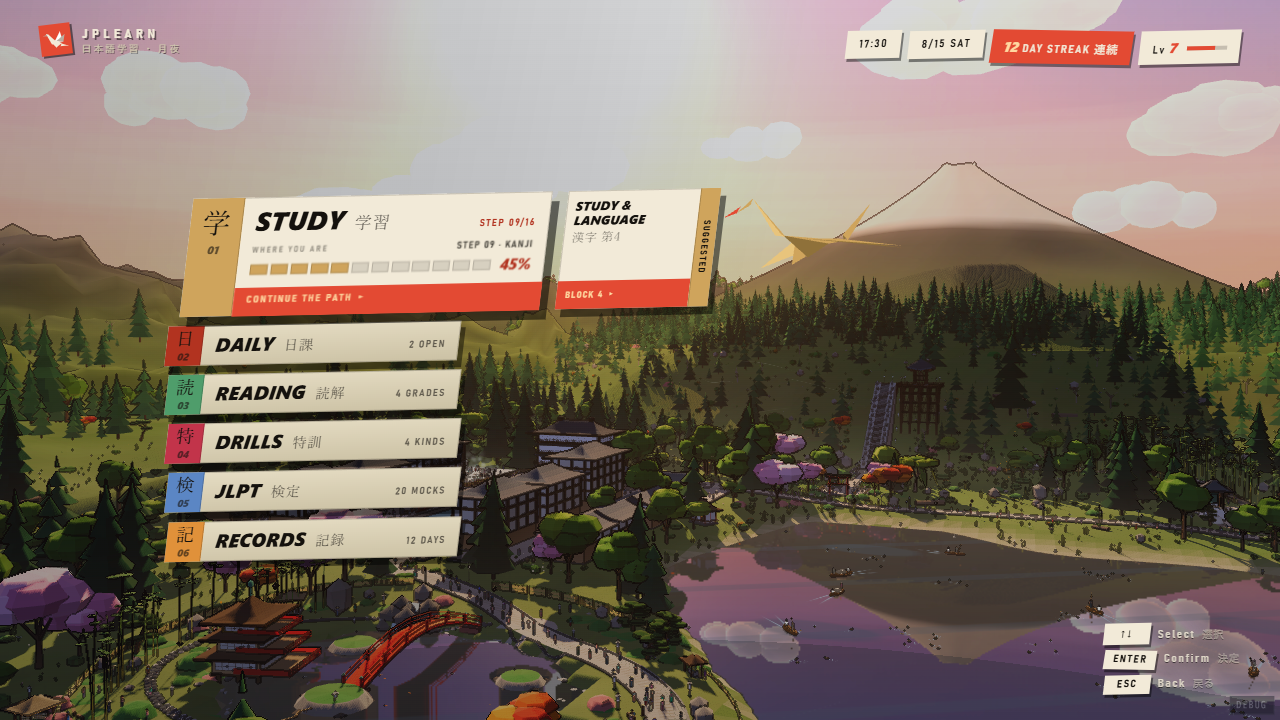
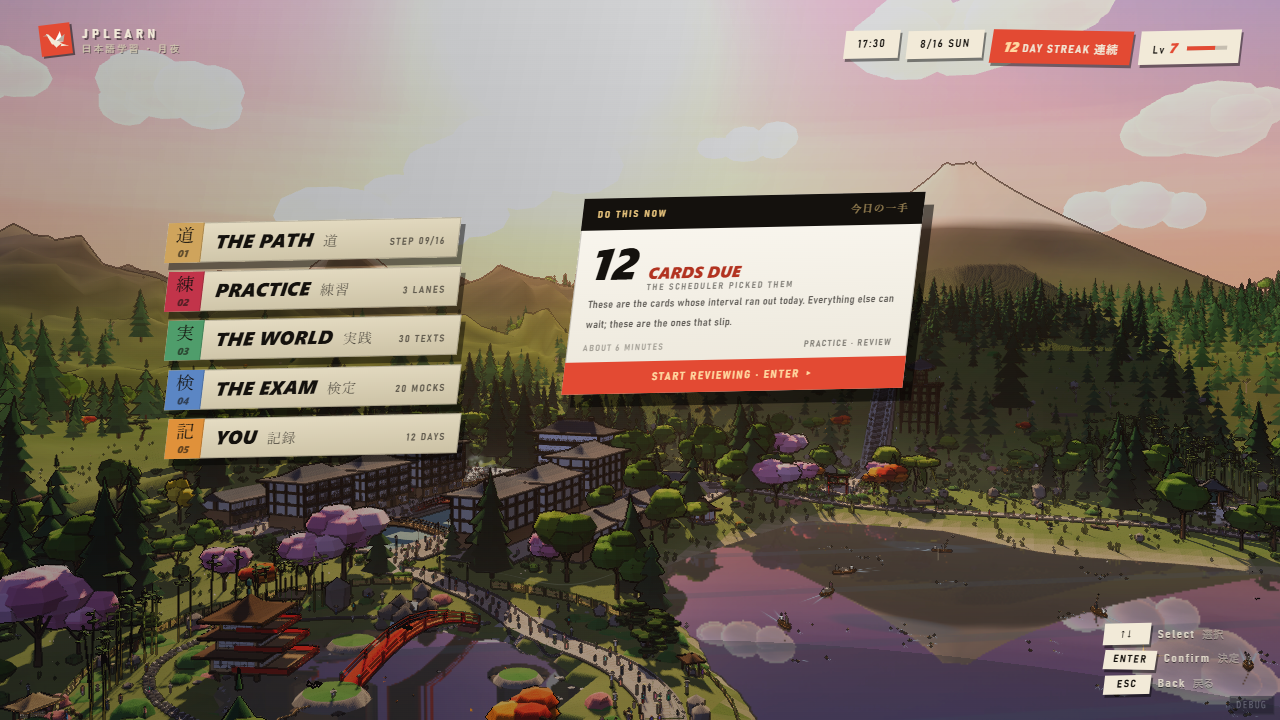
docs(design-system): the menu plate catches up with the restructure
The level-one plate showed six sections and no hero, which is a picture of a menu that
stopped existing two commits ago. Re-rendered as it actually opens — the hero selected,
five rows beneath it — at the same frozen 17:30 as the other eleven.

NEW: Practice's lanes, which had no plate at all because the screen did not exist when
this card was last written. The modes card moves with it, from level two to level three.

The levels table was the stalest thing in here: it still listed six section rows and put
the daily road at level three under DAILY, a section that is now a lane inside Practice.
Twelve screens still, but a different twelve.

diff --git a/mockups/menu-concepts/design-system/components/screens.html b/mockups/menu-concepts/design-system/components/screens.html
@@ -69,12 +69,12 @@
 <div class="note">
   <b>Twelve screens, three levels.</b>
   <table>
-    <tr><th>LEVEL 1</th><td>the standing menu — a vertical column of six section rows, one open at
-      a time</td></tr>
-    <tr><th>LEVEL 2</th><td>six, one per section: STUDY path &middot; DAILY road &middot; READING
-      library &middot; DRILLS modes &middot; JLPT ascent &middot; RECORDS ledger</td></tr>
-    <tr><th>LEVEL 3</th><td>four: STUDY deck &middot; STUDY feed &middot; STUDY cleared pile &middot;
-      DAILY road</td></tr>
+    <tr><th>LEVEL 1</th><td>the standing menu — the hero, and five section rows beneath it</td></tr>
+    <tr><th>LEVEL 2</th><td>six: The Path's path &middot; Practice's lanes &middot; The World's
+      library &middot; The Exam's ascent &middot; You's ledger &middot; and the daily road, which is
+      reached from inside Practice rather than from a row of its own</td></tr>
+    <tr><th>LEVEL 3</th><td>five: the deck &middot; the feed &middot; the cleared pile &middot;
+      the drill modes &middot; the daily road</td></tr>
   </table>
 </div>
 
@@ -90,10 +90,16 @@
 <figure>
   <img src="../assets/screen-menu.png" alt="Level one, the standing menu">
   <figcaption>
-    <div class="name"><b>THE MENU</b><i>LEVEL 1 &middot; 6 SECTIONS</i><u>chain</u></div>
-    <p>Six rows, one open at a time, the open one carrying its own state and its own next action so
-      there is no second panel to look at. Classes are <code>.st-*</code>. Documented as an object
-      in <code>built.html</code> section A.</p>
+    <div class="name"><b>THE MENU</b><i>LEVEL 1 &middot; THE HERO AND FIVE SECTIONS</i><u>chain</u></div>
+    <p><b>The hero is the selection the menu opens on</b>, which is the whole point: nine sessions in
+      ten the answer is "do what is due", and a casual player should reach it in one keypress without
+      having read a section name. Its priority is the app's own — cards due, then the path's next
+      block, then the unplayed puzzles — because reviews decay if they wait and nothing else on this
+      menu does. Classes are <code>.st-*</code> and <code>.sh-*</code>.</p>
+    <p>It replaced the per-section suggestion box rather than joining it. Three layers of "what
+      next" — row slab, box, hero — is two too many, and the box was the weakest and the only one
+      that moved. It also freed the space: the column already fills the stage, so a card above would
+      have been paid for by shrinking the rows.</p>
     <p><b>The one screen that does not obey the contract's balance.</b> It keeps the moat and the
       bands but stays a left column with the mountain to its right — that composition is why the
       rest of the interface looks the way it does.</p>
@@ -193,9 +199,22 @@
 </figure>
 
 <figure>
+  <img src="../assets/screen-lanes.png" alt="Practice, the three lanes">
+  <figcaption>
+    <div class="name"><b>THE LANES</b><i>PRACTICE &middot; LEVEL 2 &middot; 3 LANES</i><u>peers</u></div>
+    <p>Practice is the one section that is a merge rather than a rename: it absorbed the daily
+      puzzles, the seventeen drills, and the review queue that never had a home anywhere. Three
+      things you can do with material the path has already taught you, and nothing new is introduced
+      here. Classes are <code>.pr-*</code>.</p>
+    <p><b>Only reviews carry vermilion</b>, because only reviews are an obligation — the other two
+      are things you choose. That is the same colour law the action slab obeys everywhere else.</p>
+  </figcaption>
+</figure>
+
+<figure>
   <img src="../assets/screen-modes.png" alt="DRILLS, the modes">
   <figcaption>
-    <div class="name"><b>THE FOLD</b><i>DRILLS &middot; LEVEL 2 &middot; 17 MODES &times; 6 DECKS</i><u>peers</u></div>
+    <div class="name"><b>THE FOLD</b><i>PRACTICE &middot; LEVEL 3 &middot; 17 MODES &times; 6 DECKS</i><u>peers</u></div>
     <p>The road, kept, plus the axis it was missing. Seventeen modes in five groups with a deck row
       above them &mdash; <b>a mode the current deck does not offer leaves the road entirely</b> and
       the road closes over it. Classes are <code>.dr-*</code>.</p>
@@ -212,7 +231,7 @@
 <figure>
   <img src="../assets/screen-road-daily.png" alt="DAILY, the road">
   <figcaption>
-    <div class="name"><b>THE ROAD</b><i>DAILY &middot; LEVELS 2 AND 3</i><u>peers</u></div>
+    <div class="name"><b>THE ROAD</b><i>THE DAILY PUZZLES, INSIDE PRACTICE</i><u>peers</u></div>
     <p>The carousel from <code>built.html</code> B&amp;C, inset to the stage. It was full-bleed on
       purpose — a road that stops at the frame edge is not a road — and it survives the move because
       of its mask: the road does not stop at x160, it <b>fades</b> there, into open valley rather

diff --git a/mockups/menu-concepts/design-system/README.md b/mockups/menu-concepts/design-system/README.md
@@ -34,7 +34,13 @@ nothing scrolls. See `foundations/frame-contract.html` — it supersedes the old
 width", which is what let screens paint to both edges and bury the valley the menu exists to show.
 
 **The road is no longer the shape of everything.** It used to carry every section at both levels.
-It now carries one — DAILY — which is the one it is the right shape for.
+It now carries the daily puzzles and nothing else, which is the one thing it is the right shape for.
+
+**Six sections became five**, and DAILY became a lane inside Practice: The Path 道 · Practice 練習 ·
+The World 実践 · The Exam 検定 · You 記録. A hero card carries the app's own recommendation and is
+the selection the menu opens on. Locked sections stay visible and name their gate; press **L** for
+the first-run view. See `PLAN-navigation.md` in the mockup folder for the whole tree and the four
+decisions behind it.
 
 ## The two open problems
 
